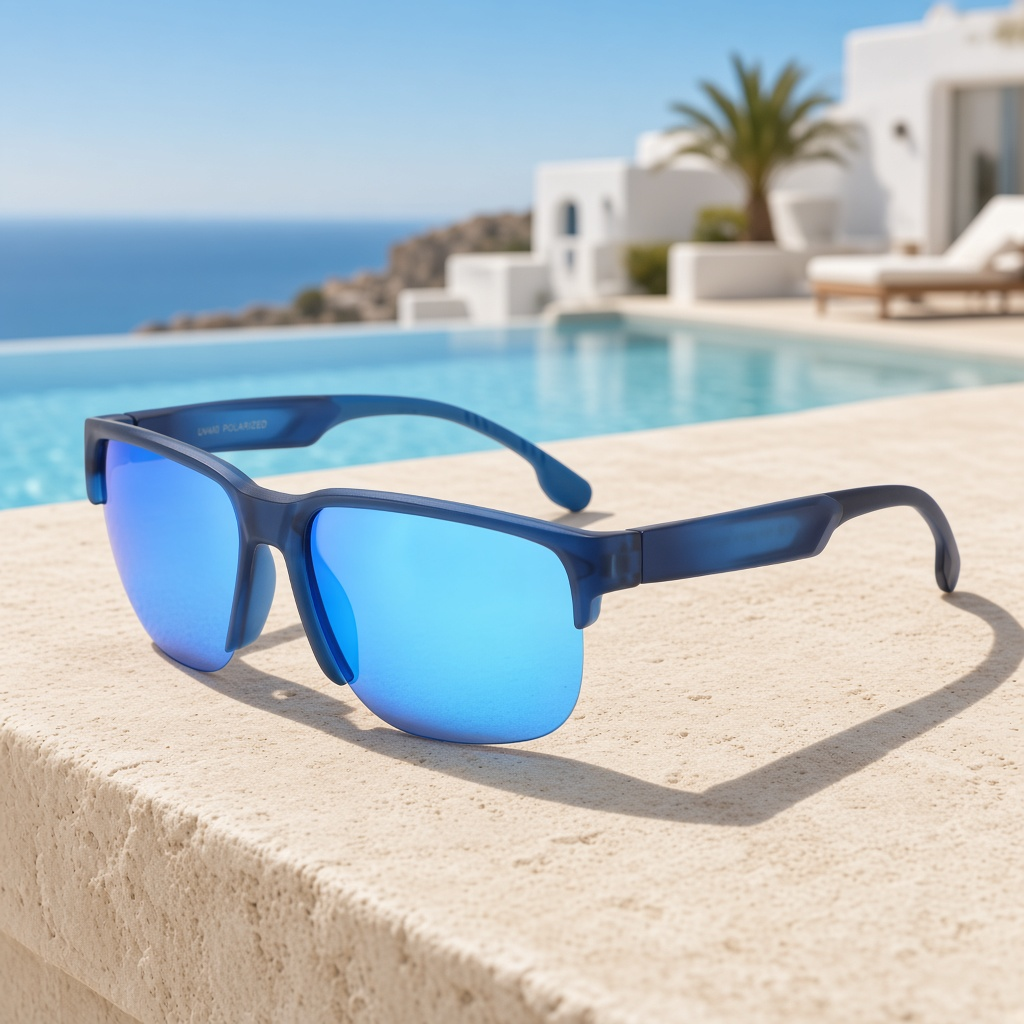
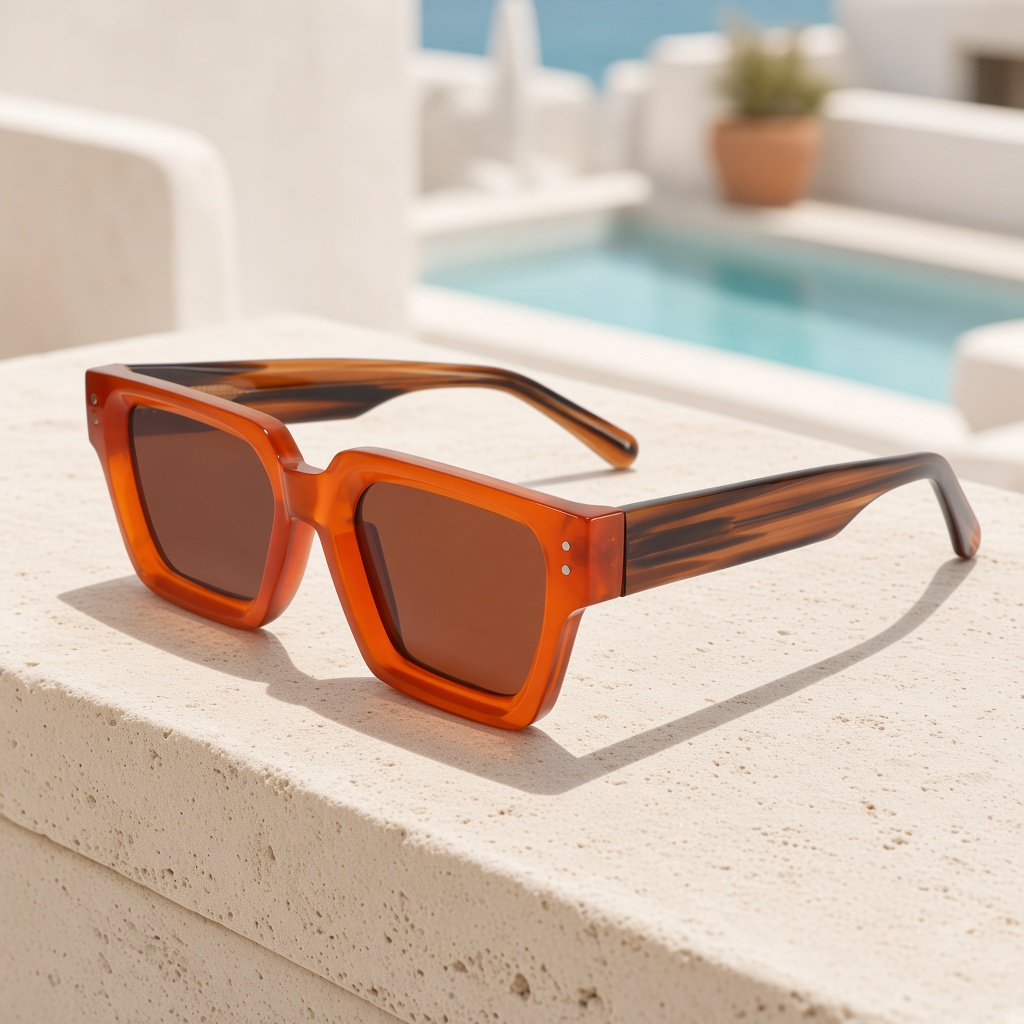
Feature stylish orange frame in homepage hero

diff --git a/shopify-theme/preview/index.html b/shopify-theme/preview/index.html
@@ -22,7 +22,7 @@
     <main>
       <section class="hero page-width">
         <div class="hero-media">
-          <img src="../assets/svank-holiday-hero.png" width="1200" height="1200" alt="Blue sunglasses beside a bright Mediterranean pool">
+          <img src="../assets/svank-holiday-hero.png" width="1200" height="1200" alt="Burnt-orange sunglasses beside a bright Mediterranean pool">
         </div>
         <div class="hero-content">
           <p class="eyebrow">The escape collection</p>
